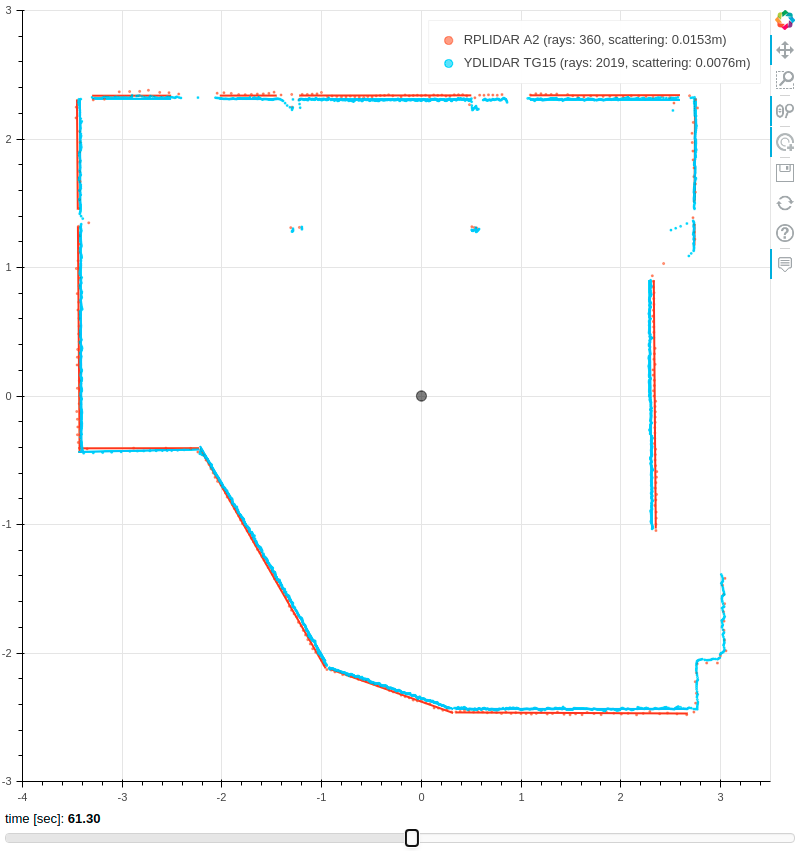
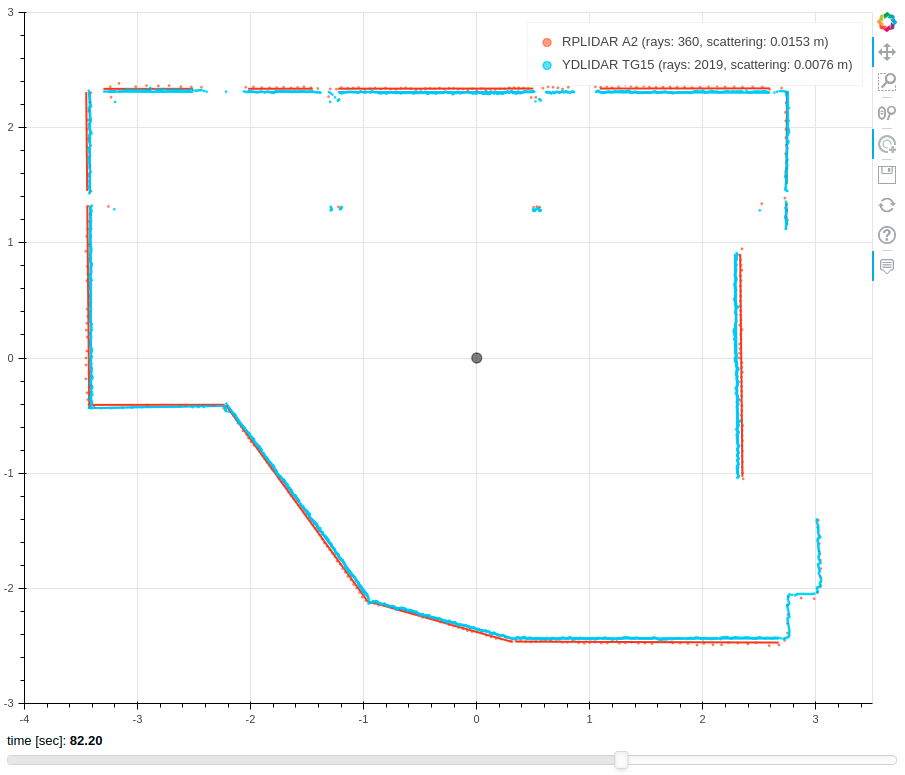
minor improvements

diff --git a/visualization/bokeh_visualization.py b/visualization/bokeh_visualization.py
@@ -145,7 +145,7 @@ TOOLTIPS = [
     ("angle", "@angle"),
 ]
 
-p = figure(plot_width=800, plot_height=800, x_range=(-4, 3.5), y_range=(-3, 3), tooltips=TOOLTIPS)
+p = figure(plot_width=900, plot_height=720, x_range=(-4, 3.5), y_range=(-3, 3), tooltips=TOOLTIPS)
 
 slider_time = Slider(start=0, end=119, value=0, step=0.05, title="time [sec]",)
 
@@ -281,19 +281,21 @@ p.circle('x', 'y', source=ydlidar_points_bokeh_initial, color=ydlidar_color, leg
 show(layout)
 
 
-
 # calculate distances
 #####################
-def measure_distance_between_lines(poly_rp, poly_yd, line_index, position, true_distance):
+
+# measure distance between lines and return difference to reference distance
+def offset_lidar_reference_measurement(poly_rp, poly_yd, line_index, position, true_distance):
     distance_rp = abs(np.polyval(poly_rp[line_index[0]], [position]) - np.polyval(poly_rp[line_index[1]], [position]))
     distance_yd = abs(np.polyval(poly_yd[line_index[0]], [position]) - np.polyval(poly_yd[line_index[1]], [position]))
 
     error_rp = distance_rp - true_distance
     error_yd = distance_yd - true_distance
-    # print(distance_rp)
-    # print(error_rp)
-    # print(distance_yd)
-    # print(error_yd)
+    
+    # print(distance_rp[0])
+    # print(error_rp[0])
+    # print(distance_yd[0])
+    # print(error_yd[0])
 
     return error_rp[0], error_yd[0]
 
@@ -332,14 +334,15 @@ line_index.append([4, 7])
 position.append(2.118)
 true_value.append(4.77)
 
-total_error_rp = 0
-total_error_yd = 0
+total_error_rp = []
+total_error_yd = []
 for i in range(len(line_index)):
-    error_rp, error_yd = measure_distance_between_lines(rp_line_all, yd_line_all, line_index[i], position[i], true_value[i])
-    total_error_rp += error_rp
-    total_error_yd += error_yd
-total_error_rp = total_error_rp / len(line_index)
-total_error_yd = total_error_yd / len(line_index)
+    error_rp, error_yd = offset_lidar_reference_measurement(rp_line_all, yd_line_all, line_index[i], position[i], true_value[i])
+    total_error_rp.append(error_rp)
+    total_error_yd.append(error_yd)
 
-print("error RPLIDAR: " + str(total_error_rp) + " m")
-print("error YDLIDAR: " + str(total_error_yd) + " m")
+print("error RPLIDAR: " + str(np.mean(total_error_rp)) + " m")
+print("error YDLIDAR: " + str(np.mean(total_error_yd)) + " m")
+
+# print("variance RPLIDAR: " + str(np.var(total_error_rp)) + " m")
+# print("variance YDLIDAR: " + str(np.var(total_error_yd)) + " m")

diff --git a/resources/distance_comparison.md b/resources/distance_comparison.md
@@ -1,0 +1,38 @@
+### Referenzmessungen
+
+(Lasermessgerät - Lasermessgerät - Meterstab)
+1. Messstrecke (unter den Tischen) Abstand zur Wand ca. 0,15 m ( Wand - Wand)
+6,155 - 6,155 - 6,157 m
+
+2. Messstrecke (unter den Tischen) Abstand zur Wand ca. 0,55 m (Wand - Wand)
+6,150 - 6,150 - 6,155 m
+
+3. Messstrecke (vor den Tischen) Abstand zur Wand ca. 1,30 m (Wand - Wand)
+6,146 - 6,147 - 6,150 m
+
+4. Messstrecke Abstand zur Wand ca. 1,50 m (Wand - Schrank)
+5,709 - 5,709 - 5,714 m
+
+5. Messstrecke Abstand zur Wand ca. 2,30 m (Wand - Schrank)
+5,709 - 5,708 - 5,710 m
+
+6. Messstrecke (quer) Abstand zur Wand ca. 0,60 m (Sideboard - Wand)
+4,777 - 4,777 - 4,775 m
+
+![messungen_raumplan](layout_measurements_FK35.png)
+
+
+### Lidar Messungen
+
+| Messung | Referenzmessung | RPLIDAR Messung | RPLIDAR Fehler | YDLIDAR Messung | YDLIDAR Fehler
+| ------ | ------ | ------ | ------ |-----|-----|
+| 1 | 6.155 m | 6.19522848 | 0.04022848 | 6.17248743 | 0.01748743 |
+| 2 | 6.150 m | 6.18926752 | 0.03926752 | 6.16398169 | 0.01398169 |
+| 3 | 6.147 m | 6.17809073 | 0.03109073 | 6.14803343 | 0.00103343 |
+| 4 | 5.709 m | 5.77009549 | 0.06109549 | 5.70136846 | -0.00763154 |
+| 5 | 5.709 m | 5.77055445 | 0.06155445 | 5.70809483 | -0.00090517 |
+| 6 | 4.777 m | 4.80958941 | 0.03958941 | 4.74055739 | -0.02944261 |
+
+| RPLIDAR Fehler Ø | YDLIDAR Fehler Ø |
+| - | - |
+|0.04547101412330242 m | -0.0009127930921516795 m | 

diff --git a/README.md b/README.md
@@ -11,13 +11,18 @@ Comparison between the two low-cost 2D 360° lidar sensors [RPLIDAR A2](https://
 * YDLIDAR: 0.0076 m
 
 ### Distance Error
+[detailed information](resources/distance_comparison.md)
 * RPLIDAR: 0.0455 m
 * YDLIDAR: -0.0009 m
 
+
 ## Visualization
 ### ROS Rviz
+``` roslaunch low-cost-lidar-comparison comparison.launch ```
 ![result_rviz](resources/lidar_comparison_rviz.png)
 ### Bokeh
+use time slider to move in time,
+by selecting two points the browser console outputs the distance between them <br>
 ![result_bokeh](resources/lidar_comparison_bokeh.png)
 
 ## Measurement setup
